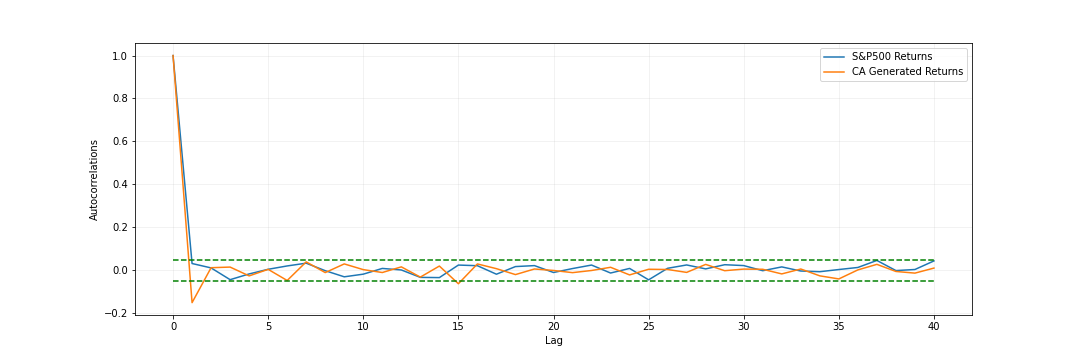
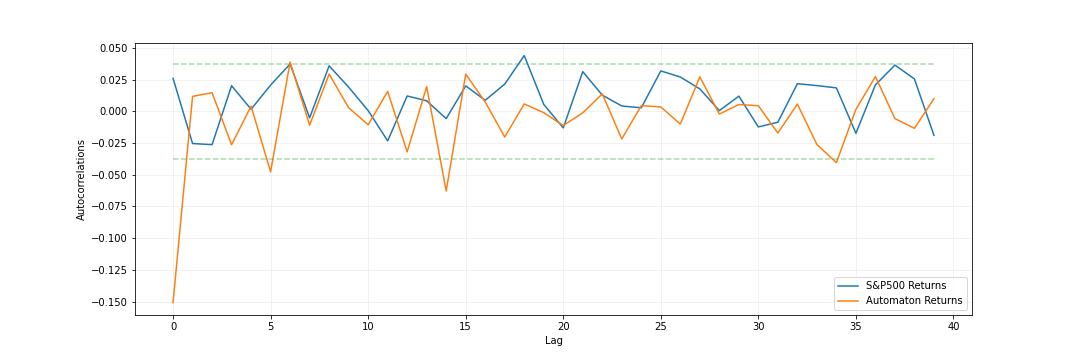
autocorr plots

diff --git a/code/james/pres_plots.py b/code/james/pres_plots.py
@@ -8,6 +8,7 @@ import random
 from scipy.optimize import curve_fit
 import scipy.stats as stats
 from numba import njit, prange
+import statsmodels.api as sm
 import math
 import itertools
 import operator
@@ -260,18 +261,75 @@ plt.show()
 
 
 # %%
-# pi2_range = [0, 0.25, 5]
-# A_range = np.linspace(1, 10, 50)
-# sims = 50
 
-# NA_res = np.zeros((sims, len(N_range), A_range.shape[0]))
+df = pd.read_csv("../../data/all_world_indices_clean.csv")
+df_spx = df[["Date", "SPX Index"]]
+df_spx["Date"] = pd.to_datetime(df_spx["Date"], format='%d/%m/%Y')
+df_spx = df_spx.sort_values(by="Date")
+df_spx.reset_index(inplace=True)
+series_array = np.array(df_spx["SPX Index"])
+log_ret_dat = np.diff(np.log(series_array))
+log_ret_dat_stan = (log_ret_dat - np.mean(log_ret_dat)) / np.std(log_ret_dat)
 
-# for j, pi2_val in enumerate(pi2_range):
-#     for i, A_val in enumerate(A_range):
+G,P,N,S,X,D,T,U,C, initial_account_balance = simulation(trigger = False, bound = True, pd = 0.05, pe = 0.01,
+        ph = 0.0485, pa = 0.7, N0=4000, N1 = 100, A = 4, a=1, h=1, 
+        pi1 = 0.3, pi2 = 0.5, pi3 = 0.2)
+r = (X - np.mean(X)) / np.std(X)
 
-#         for k in range(sims):
-#             G,P,N,S,X,D,T,U,C, initial_account_balance = simulation(trigger = False, bound = False, pd = 0.05, pe = 0.01,
-#                     ph = 0.0485, pa = 0.7, N0=1000, N1 = 100, A = A_val, a=1, h=1, 
-#                     pi1 = 0.6, pi2 = 0.2, pi3 = 0.2)
+# %%
 
-#             NA_res[k, j, i] = count_crashes(X, 0.65, window=2) 
+## x and y data
+acf_x = sm.tsa.stattools.acf(r)[1:]
+acf_sp = sm.tsa.stattools.acf(log_ret_dat_stan[1:])[1:]
+
+acf_x_vol = sm.tsa.stattools.acf(np.abs(r))[1:]
+acf_sp_vol = sm.tsa.stattools.acf(np.abs(log_ret_dat_stan[1:]))[1:]
+
+x = np.arange(acf_x.shape[0])
+
+## mean above which the acf is significantly different from 
+## zero at the 95% level. 2.021 is the critical value 
+threshold = 2.021 * np.std(acf_x)
+
+fig = plt.figure(figsize=(15, 5))
+plt.plot(x, acf_x, label="S&P500 Returns")
+plt.plot(x, acf_sp, label="Automaton Returns")
+plt.plot(x, [threshold]*acf_x.shape[0], "--", color="C2", alpha=0.4)
+plt.plot(x, [-1 * threshold]*acf_x.shape[0], "--", color="C2", alpha=0.4)
+plt.xlabel("Lag")
+plt.ylabel("Autocorrelations")
+plt.grid(alpha=0.2)
+plt.legend()
+plt.savefig("imgs/acf_ret")
+plt.show()
+# %%
+
+fig, (ax1, ax2) = plt.subplots(
+        ncols=1, nrows=2, figsize=(12,7), sharex=True, gridspec_kw = {'wspace':0, 'hspace':0.15})
+        
+ax1.plot(x, acf_x, label="S&P500 Returns")
+ax1.plot(x, acf_sp, label="Automaton Returns")
+ax1.plot(x, [threshold]*acf_x.shape[0], "--", color="black", alpha=0.5, label="Significance Threshold")
+ax1.plot(x, [-1 * threshold]*acf_x.shape[0], "--", color="black", alpha=0.5)
+ax1.fill_between(x, [threshold]*acf_x.shape[0], [-1 * threshold]*acf_x.shape[0], color="black", alpha=0.05) 
+ax1.grid(alpha=0.2)
+ax1.set_ylabel(r"Autocorrelation")
+ax1.legend() 
+
+ax2.plot(x, acf_x_vol, color="C0", label="S&P500 Volatility")
+ax2.plot(x, acf_sp_vol, color="C1", label="Automaton Volatility")
+ax2.plot(x, [threshold]*acf_x.shape[0], "--", color="black", alpha=0.5, label="Significance Threshold")
+ax2.fill_between(x, [threshold]*acf_x.shape[0], [threshold - 0.04]*acf_x.shape[0], color="black", alpha=0.05) 
+##ax2.plot(x, [-1 * threshold]*acf_x.shape[0], "--", color="C2", alpha=0.4)
+ax2.grid(alpha=0.2)
+ax2.set_ylabel(r"Autocorrelation")
+ax2.legend() 
+
+fig.align_ylabels()
+plt.xlabel("Lag")
+plt.savefig("acf_double_plot", dpi=300)
+##plt.xlim(200, 500)
+plt.show()
+
+
+# %%
